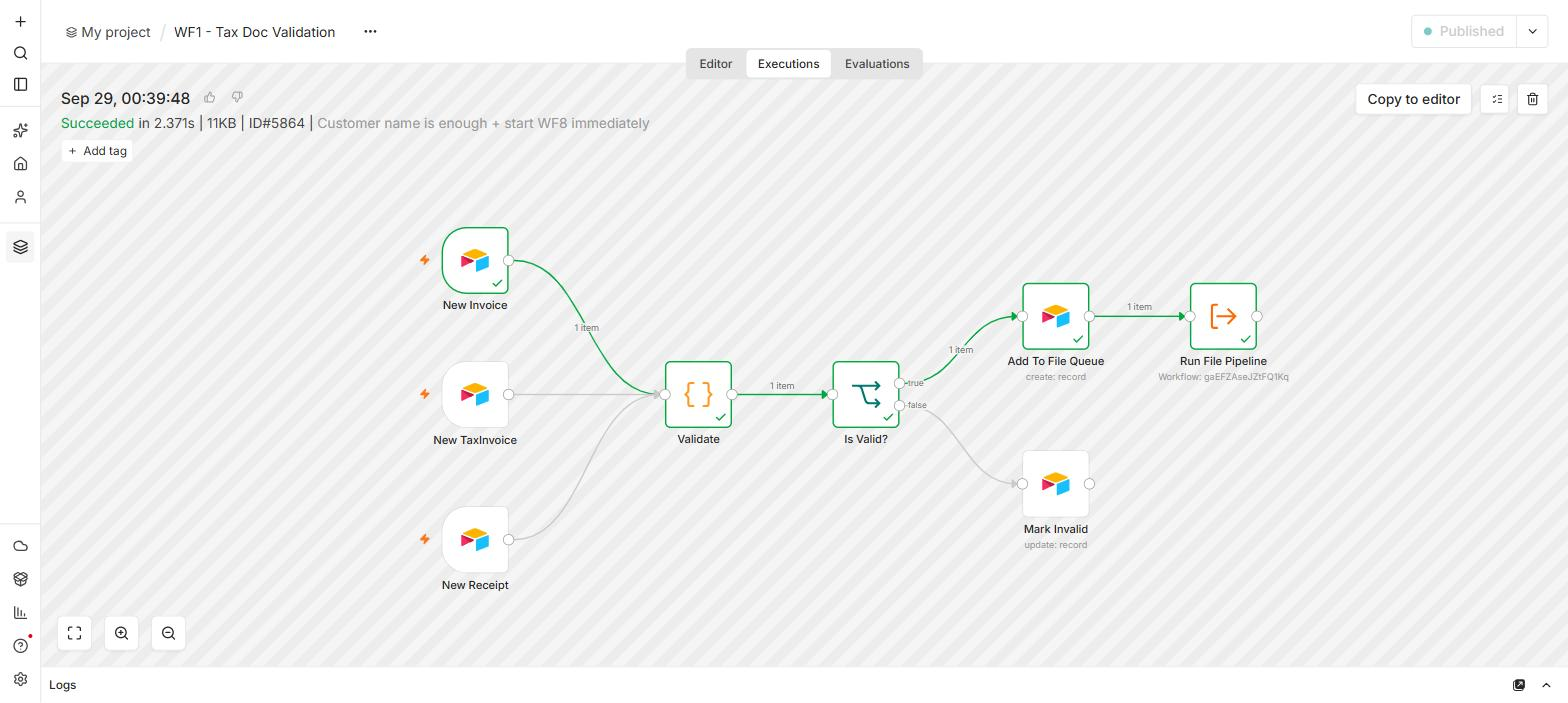
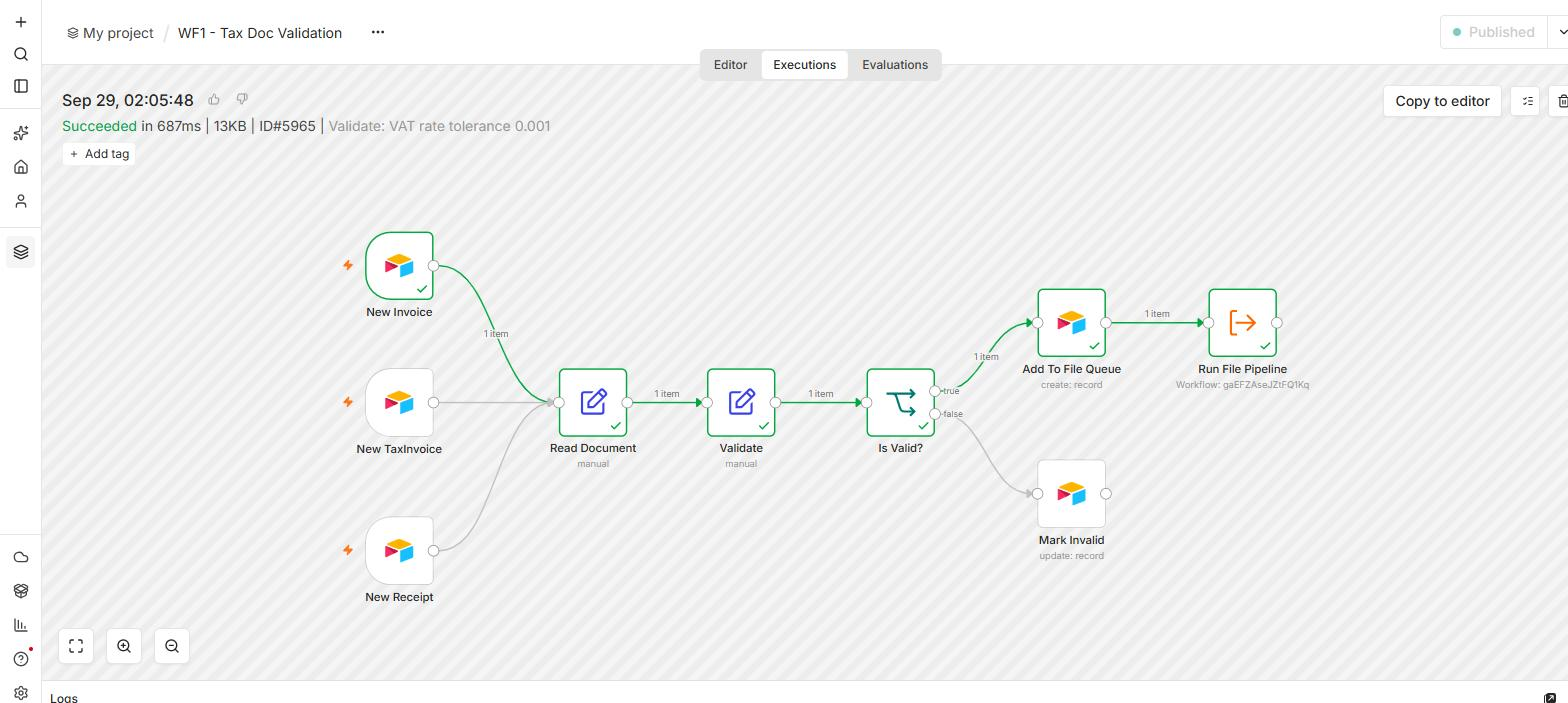
Screenshots of real runs of the no-Code-node workflows
Replace the editor screenshots that still showed Code nodes with runs of
the new versions (all nodes green), and add the customer bot headphones
conversation.

diff --git a/docs/04-workflows.md b/docs/04-workflows.md
@@ -24,8 +24,6 @@ The course brief asks for a no-code build, so no workflow uses a Code node. Logi
 ### WF1 — Tax Doc Validation
 Three Airtable triggers (one per document table) feed `Read Document` (Edit Fields, the document's values as one flat item) and `Validate` (Edit Fields) checks required fields, VAT rate by issue date, VAT amount and total arithmetic, and a customer business number on tax invoices. Valid documents are queued for WF8; invalid ones are marked with the reason.
 
-![WF1](screenshots/wf1-tax-doc-validation.png)
-
 A successful run (one trigger fired; the `Mark Invalid` branch did not run):
 
 ![WF1 run](screenshots/run-wf1.jpg)
@@ -33,16 +31,12 @@ A successful run (one trigger fired; the `Mark Invalid` branch did not run):
 ### WF3 — Contact Intake
 A new lead's email is normalized (trimmed, lower-case), checked against existing leads with the same email, and marked `Dead` if another lead already has it.
 
-![WF3](screenshots/wf3-contact-intake.png)
-
-A successful run (a duplicate lead, so the `Mark Dead` branch ran):
+A successful run (a new lead with a new email, so it stays `New` and `Mark Dead` does not run):
 
 ![WF3 run](screenshots/run-wf3.jpg)
 
 ### WF4a — Sales Cold Emails
 Every 3 hours: take one `New` lead, have the LLM write a personal Hebrew email, send it from Gmail, and store the Gmail thread ID on the lead.
-
-![WF4a](screenshots/wf4a-sales-cold-emails.png)
 
 A successful run:
 
@@ -50,8 +44,6 @@ A successful run:
 
 ### WF4b — Sales Reply Check
 New Gmail messages are matched to a lead by thread ID; if it's a lead's reply, the agent drafts an answer, replies in the same thread, and marks the lead `Replied`.
-
-![WF4b](screenshots/wf4b-sales-reply-check.png)
 
 A successful run:
 
@@ -68,9 +60,11 @@ Telegram customer bot → service agent with memory and two RAG tools: `search_p
 
 ![WF5](screenshots/wf5-customer-service.png)
 
-A successful run (only the tools the agent used in that conversation run, so the policies branch has no check):
+A successful run: the headphones question below. The agent only needed `search_products`, so the policies branch has no check:
 
 ![WF5 run](screenshots/run-wf5.jpg)
+
+![Customer bot: headphones in stock](screenshots/telegram-customer-headphones.png)
 
 ### WF6 — Policies Embedding
 As the course brief asks, the policy text lives inside the workflow: the `עריכת שדות` (Edit Fields) node holds the 12 policy topics as separate text fields (returns, warranty, shipping, prices, payments, tax rules, agent guardrails, tone, sales playbook, manager brief, business overview, FAQ). **Execute workflow** chunks and embeds them into the in-memory store under the key `policies`. To change a policy: edit its text box and run WF6 again. (The same text is kept in [`mock/policies/`](../mock/policies/) as a readable copy.)
@@ -84,16 +78,12 @@ A successful run:
 ### WF7 — Products Embedding
 Read every product from Airtable → build one Hebrew text per product → embed under the key `products`.
 
-![WF7](screenshots/wf7-products-embedding.png)
-
 A successful run:
 
 ![WF7 run](screenshots/run-wf7.jpg)
 
 ### WF8 — File Pipeline
 Started by WF1 as soon as a valid document is queued (an hourly schedule catches anything left over): pending rows in `Files` → fetch the source document → Hebrew RTL HTML → Google Drive (as `text/html`) → mark `Done` and write the Drive link into the document's `PdfUrl`, which the app shows as the "מסמך" link.
-
-![WF8](screenshots/wf8-file-pipeline.png)
 
 A successful run:
 
@@ -114,8 +104,6 @@ The conversation from that run ("מה ההכנסות?"):
 
 ### WF13 — App Gateway
 The only entry point for the admin app, so the app holds no Airtable key. `list` reads a table (customers, leads, orders, invoices, products, tasks) and converts it to the app's row format; `create` converts an app form (Hebrew labels → Airtable values, running IDs such as `CUST-0001` / `ORD-0001`, invoices with DocNumber + 18%/17% VAT + total) and writes it (this is a demo, so a new lead always gets a `+leadN` alias of the project mailbox, e.g. `guycgai+lead6@gmail.com`, and WF4a's email to it really arrives); `chat` goes to a RAG agent with the same `search_policies` / `search_products` tools as WF5; anything else returns an error. The Airtable read retries on the 5-requests-per-second limit.
-
-![WF13](screenshots/wf13-app-gateway.png)
 
 Successful runs: `create` from an app form (top) and `list` for a table screen (bottom):
 

diff --git a/docs/02-telegram-bots.md b/docs/02-telegram-bots.md
@@ -13,6 +13,10 @@ The project uses **two separate bots**. Telegram lets only one webhook listen to
 
 ![Customer bot: product price](screenshots/telegram-customer-price.png)
 
+**Customer bot (WF5)** — "are there wireless headphones in stock, and what do they cost?". The agent searches the products store and lists the three headphone models with SKU, price and stock:
+
+![Customer bot: headphones in stock](screenshots/telegram-customer-headphones.png)
+
 **Owner bot (WF9)** — a policy question. The manager agent calls its policies knowledge tool (`Answer questions with a vector store`) and summarizes the returns policy from the WF6 corpus:
 
 ![Owner bot: returns policy](screenshots/telegram-manager-returns.png)
